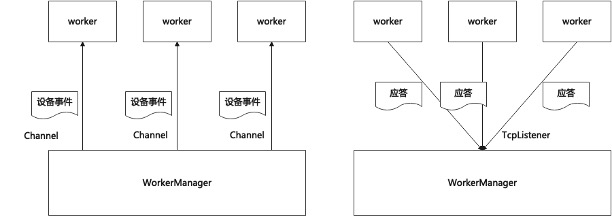
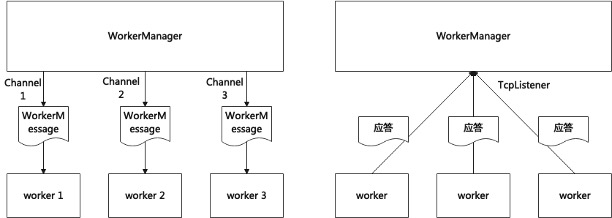
docs(devmaster): update devmaster document

diff --git a/docs/design/02-devmaster_architecture.md b/docs/design/02-devmaster_architecture.md
@@ -1,0 +1,210 @@
+目 录
+
+[TOC]
+
+**Abstract** **摘要**：*devmaster*是*sysmaster*的设备管理模块，其机制与策略分离的设计思想提供了优秀的灵活性和可扩展能力，另一方面*devmaster*采用了并发程序框架，有效地利用了多核硬件资源的并发能力。*devmaster*通过*inotify*机制监听设备写操作并同步触发*change*类型的*uevent*事件，并通过监听内核上报的*uevent*事件从而感知设备动作，使得在设备热插拔、格式化等操作后能及时更新设备信息。*devmaster*在设备处理上使用了规则解析策略，使用者可以根据业务需求编写定制化的设备处理规则，避免了策略硬编码问题，提高*devmaster*在使用上的灵活性和可扩展性。为了充分利用硬件设备的多核处理能力，*devmaster*采用了单生产者多消费者的并发框架，daemon进程集中监听*uevent*事件并通过任务队列对事件进行缓存调度，当任务队列中存在待处理事件时，worker管理器会分配一个空闲的worker进行任务派发，同一时刻运行有多个worker同时处理多个无依赖关系的设备事件。*devmaster*使用状态机模型管理worker和设备事件的执行状态，及时进行回收、释放等状态更新动作。设备管理是支持1号进程在虚拟机、物理机等场景下部署运行必不可少的能力，因此*devmaster*是*sysmaster*的核心扩展模块之一。
+
+**Keywords** **关键词**： *设备管理*
+
+
+
+# 1 概述
+
+devmaster是sysmaster的设备管理模块，是支撑1号进程在虚拟机、物理机环境中部署运行的核心能力之一。devmaster采用了机制和策略分离的架构，并设计了一套并发程序框架，在提供优秀的灵活性和可扩展性的基础上，充分发挥了多核硬件资源的并发能力。
+
+
+
+# 2 相关工作
+
+| 业界方案     | 特点                                                         |
+| ------------ | ------------------------------------------------------------ |
+| systemd-udev | 基于内核的uevent事件驱动，并使用多worker机制对设备进行并发处理。udev设计了一种机制和策略分离的设备处理流程，提供了优秀的业务定制能力 |
+| busybox-mdev | 利用sysfs机制主动创建设备节点，或使用内核hotplugin回调机制被动创建或删除设备节点。每触发一次uevent就会创建一个子进程，高并发场景下容易资源紧张 |
+| android-vold | 介于Kernel和Framework之间，监听uevent事件并做简单的设备处理，复杂业务逻辑通过Framework层的存储管理器间接派发给具体服务和APP实现 |
+| macox X      | 由设备驱动直接创建设备节点，具体设备的处理策略需要具体分析   |
+
+
+
+# 3 设计方案
+
+本节对devmaster的设计方案进行讨论。首先我们将分析devmaster的总体架构，并介绍涉及代码的目录结构，然后我们将介绍devmaster的基本运行框架，并细粒度分析各个子模块的工作原理，最后我们通过时序图介绍devmaster的核心功能场景。
+
+
+
+## 3.1 总体架构
+
+devmaster包含两个可执行文件：常驻进程devmaster和客户端工具devctl
+
+1. devmaster作为常驻进程持续监听内核上报的uevent事件，接收事件后获取空闲的worker或创建新的worker，并派发设备处理任务。同时，udevd会与客户端程序udevadm进行交互，对进行的运行状态进行控制。
+2. devctl作为客户端工具负责与devmaster进行交互，比如发送控制命令，也可以监听uevent事件、触发事件、调试规则等。
+
+如下所示为devmaster的总体架构图，各子模块的功能描述详情见附录的特性列表。
+
+![](./assets/devmaster_architecture.jpg)
+
+
+
+## 3.2 目录结构
+
+1. 源码位置: extends/devmaster
+
+2. 公共函数库: libs/libdevice
+
+3. 规则文件与配置文件：todo
+
+
+
+## 3.3 基本框架
+
+devmaster采用基于epoll的libevent异步编程框架，当内核上报uevent事件或者用户通过devctl工具发送控制命令后，将激活devmaster进入设备处理流程。基本框架分成三个层次，第一层次包含ControlManager和Monitor模块，负责接收设备事件，ControlManager负责接收devctl发送的控制指令，用户可以通过devct对devmaster的框架功能进行调试，Monitor负责监听内核上报的uevent事件，第二层次为JobQueue模块，devmaster接收到设备事件后需要插入到任务队列中进行缓存，并等待派发给空闲worker进程设备处理，队列中的各个事件具有状态，JobQueue需要维护和刷新事件状态，第三层次为WorkerManager模块，当任务队列中存在待处理事件时，由WorkerManager分配或者创建空闲的worker，并派发事件给worker进行处理，WorkerManager需要维护和刷新worker的状态，worker接收到待处理事件时，会在日志中打印接收记录，处理成功后，向外广播设备信息，并向WorkerManager通过tcp发送应答消息。各模块间的依赖关系如下图所示，ControlManager和Monitor持有JobQueue的引用，当接收到设备事件后，插入到任务队列中，JobQueue和WorkerManager相互持有引用，JobQueue中存在待处理任务时，会向WorkerManager分发，如果获取到空闲worker，则更新任务状态，WorkerManager获取到空闲的worker时，会将设备任务发送给该worker进行处理，处理完成后，WorkerManager通过JobQueue更新任务状态。
+
+<img src="./assets/devmaster_basic_framework.jpg" width="35%" height="35%">
+
+## 3.4 模块分析
+
+本节将详细介绍devmaster基本框架中的各个子模块。
+
+
+
+### 3.4.1 Monitor
+
+devmaster通过Monitor模块监听内核上报的uevent事件，根据uevent事件提取设备信息，生成Device实例并插入到JobQueue中进行缓存。Monitor模块中包含唯一的DeviceMonitor实例，DeviceMonitor在libdevice库中定义，
+
+
+
+### 3.4.2 ControlManager
+
+devmaster通过ControlManager模块接收devctl工具发送的控制命令，ControlManager监听的端口地址为（0.0.0.0:1224），当前支持的控制命令如下：
+
+1. devctl test <devname>：该命令执行后向ControlManager发送"test <devname>"消息，ControlManager接收后根据devname模拟一个Device实例，并插入到JobQueue中进行任务调度。
+2. devctl kill：该命令执行后向ControlManager发送"kill "消息，ControlManager接收后调用WorkerManager的start_kill_workers_timer方法，进行worker回收。
+
+
+
+### 3.4.3 JobQueue
+
+devmaster在短时间内监测到大量uevent事件时，可能无充足数量的worker来同时满足任务调度，因此使用JobQueue将设备事件缓存起来，等待worker进入空闲状态后再进行派发处理。
+
+1. 数据结构：JobQueue使用VecDeque作为内部容器，队列元素的类型为DeviceJob数据结构，DeviceJob对Device进行封装，附加任务状态、序列号以及worker引用。JobQueue在存储任务时，根据设备的序列号进行自小到大地排序。DeviceJob具有三种状态：Undef表示尚未初始化，目前生成DeviceJob实例时将状态默认初始化为Queued，Undef状态未被使用；Queue表示任务已入队，并等待派发处理，该状态下DeviceJob中对worker的引用为空，表示尚未得到worker处理；Running表示任务正在被某个worker处理中，每个DeviceJob同一时间仅允许被唯一的worker处理，该状态下DeviceJob中包含对该worker的引用。
+
+2. 设备事件入队：上层模块调用job_queue_insert函数向JobQueue发送Device实例后，JobQueue将Device封装为DeviceJob并插入到容器中存储。入队过程中会检查Device实例中的序列号seqnum是否大于0，内核上报的uevent中的设备属性包含大于0的序列号，JobQueue仅支持来源自内核uevent的设备事件，ControlManager接收到devctl test <devname>发送的控制命令后，会仿造一个合法的Device实例，并发送给JobQueue进行调试。新插入的DeviceJob会根据序列号seqnum大小插入到特定位置，保持JobQueue队列的有序。
+
+3. 任务派发：上层模块调用job_queue_start函数开始任务派发，JobQueue轮询队列中的设备任务，如果任务状态为Queued，则通过WorkerManager进行worker调度，如果WorkerManager成功将任务派发给空闲的worker进行处理，JobQueue中会更新该任务的状态为Running，并将该任务和分配的worker绑定。进行设备事件入队后，需要紧跟任务派发动作。
+
+4. 任务清理：worker处理完设备后，会向WorkerManager发送已完成的应答信号，此时WorkerManager中调用job_free函数，将worker绑定的设备任务从JobQueue中清除。
+
+
+
+### 3.4.4 WorkerManager
+
+WorkerManager模块负责管理调度worker，需要承担任务派发、状态更新、worker回收等工作。
+
+1. 数据结构：worker的结构体类型为Worker，每个worker持有一个线程句柄，每个线程同一时间最多能处理一个设备，Worker有5种状态：UNDEF用于标识状态机起始点，创建worker实例后的起始状态是UNDEF，之后立刻进入IDLE状态；IDLE表示Worker线程处于空闲状态，等待WorkerManager派发任务，WorkerManager只会向处于IDLE状态的worker发送任务；RUNNING表示正在处理一个任务，同一时间一个worker只能处理一个任务，WorkerManager在派发任务时会检查worker状态，如果处于RUNNING，则不会向该worker发送任务；KILLING表示已向该worker的线程发送kill控制命令，worker内部使用channel向执行中的线程发送消息，如果worker线程正在处理任务，发送的消息会保存在channel缓存中，等待下一次线程通过recv读取kill命令后，再进行线程回收的流程；KILLED为终止状态，表示这个Worker已经杀死，线程已退出运行，且WokerManager收到了线程发送的退出响应，之后WorkerManager会清理worker的残留记录。
+
+![](./assets/devmaster_worker_state_machine.jpg)
+
+2. worker回收：在一些场景下需要回收正在运行的worker，比如事件队列空闲持续xx秒、控制块退出、控制块重新加载数据、收到devctl的特定控制命令等等。worker回收通过调用manager_kill_workers函数触发，该函数中会向所有worker发送kill控制命令，此时处于IDLE状态的worker进入KILLING状态并直接结束运行，处于RUNNING状态的worker会进入KILLING状态，然后等待当前任务完成再结束运行。当前仅支持使用devctl命令手动触发worker回收，自动回收功能需要等libevent支持on_post特性后再进行开发。
+
+3. WorkerManager结构体对所有worker集中管理：为每个worker分配一个channel，worker持有发送端，worker内部执行的线程中持有接收端，worker处于空闲状态时，允许向其派发WorkerMessage，WorkerMessage可以是设备任务DeviceJob，也可以是控制命令Cmd；WorkerManager通过唯一的Tcp端口（"0.0.0.0:1223"）集中监听所有worker的响应消息，消息溯源通过消息内容进行区分，如果worker完成了设备任务，会返回finished id，当WorkerManager收到应答后，根据id找到worker并重置状态为IDLE，刷新与该worker绑定的DeviceJob事件状态，并从JobQueue中把对应的DeviceJob清除，如果worker线程退出了运行，会返回killed id，WorkerManager将该worker记录从控制块中清除。另外，worker在处理完设备后，会通过netlink向用户态进程广播设备信息，使用devctl monitor可以监听到该信息。
+
+![](./assets/devmaster_worker_communicate.jpg)
+
+
+
+## 3.5 核心功能
+
+本节将以时序图的形式介绍devmaster的几个核心功能场景。
+
+
+
+### 3.5.1 事件驱动的设备处理流程
+
+1. Monitor监听到uevent事件后，解析uevent报文并提取Device数据。
+
+   【观测点：devmaster debug日志`Monitor: received device <devpath>`】
+
+2. 将Device数据插入JobQueue中。
+
+   【观测点：devmaster debug日志 `Job Queue: insert job <seqnum>`】
+
+3. JobQueue将队列中的事件派发给WorkerManager。
+
+   【观测点：devmaster debug日志`Worker Manager: start dispatch job <seqnum>`】
+
+4. WorkerManager获取空闲worker，将设备任务发送给worker，并设置该worker的状态为RUNNING。
+
+   【观测点1：devmaster debug日志`Worker Manager: set worker <worker number> to state Running`】
+
+   【观测点2：devmaster debug日志`Job Queue: dispatch job <seqnum> to worker <worker number>`】
+
+5. worker接收到设备任务后，进行设备处理。
+
+   **【观测点1：devmaster info日志`Worker <worker number>: received device <devpath>`】**
+
+   **【观测点2：devmaster info日志`Worker <worker number>: processing <devpath>`】**
+
+6. 设备处理完成后，向外广播设备信息，并向WorkerManager发送应答消息
+
+   **【观测点1：devmaster info日志`Worker <worker number>: finished job`】**
+
+7. devctl monitor命令可以监听到worker广播的信息，并实时打印。【观测点：devctl monitor打印】
+
+   **【观测点：devctl monitor命令捕捉设备信息广播`USERSPACE [] >> <action> <devpath> (<subsystem>)`】**
+
+8. WorkerManager收到应答消息后，设置worker状态为IDLE，并在JobQueue中清理与该worker绑定的设备任务
+
+   【观测点1：devmaster debug日志`Worker Manager: received message "finished <worker number>"`】
+
+   【观测点2：devmaster debug日志`Job Queue: succeeded to free job <seqnum>`】
+
+   【观测点3：devmaster debug日志`Worker Manager: set worker <worker number> to state IDLE`】
+
+<img src="./assets/devmaster_device_process.jpg" width="60%" height="60%">
+
+# 4 实验对比
+
+
+
+# 5 附录
+
+
+
+## 5.1 特性列表
+
+| 需求编号 | 需求名称                       | 特性描述                                                                                                                                                                                                                                              | 优先级 |
+| -------- | ------------------------------ | ----------------------------------------------------------------------------------------------------------------------------------------------------------------------------------------------------------------------------------------------------- | ------ |
+| 1        | Monitor                        | 使用netlink机制注册socket，监听并接受内核上报的uevent事件，将事件输送到事件队列进行管理，同时承担libdevmaster对外广播的功能，每当某个事件处理结束后，向外广播处理结束的消息                                                                           | 高     |
+| 2        | JobQueue                   | 使用队列数据结构管理monitor接受的uevent事件，将队列中的事件派发给worker进行并发处理，并及时更新队列与事件状态                                                                                                                                         | 高     |
+| 3        | WorkerManager                     | 采用线程池模型创建并管理worker，当接收事件队列派发的任务时，从线程池中获取一个空闲的worker进行处理，如果不存在空闲worker，则创建一个新的worker线程进行处理,worker中进行规则处理，需要设计看门狗机制防止处理超时，当worker空闲过久时，需要进行线程回收 | 高     |
+| 4        | 规则处理                       | 负责导入和管理规则文件，处理设备任务时需要执行规则解析动作，规则解析过程需要一些特殊设备组件与builtin工具的支持，并且需要实现hwdb对设备信息进行持久化存储                                                                                             | 中     |
+| 5        | 信号处理                       | 接收SIGINT和SIGTERM信号时，进入进程退出流程，接收SIGHUP信号时，重新加载进程                                                                                                                                                                           | 中     |
+| 6        | libdevice                   | 提供设备相关的公共函数、数据结构等支持                                                                                                                                                                                                                      | 中     |
+| 7        | Watch                          | 使用inotify机制监控设备节点的IN_CLOSE_WRITE操作，并通过sysfs机制模拟设备的change事件                                                                                                                                                            | 低    |
+| 8        | ControlManager                        | 使用UnixSocket机制，监听客户端程序devctl发起的连接请求，建立连接后进行报文交互，并根据控制请求进行控制响应                                                                                                                                     | 低     |
+| 9        | 控制响应                       | 根据客户端程序的控制请求，进行配置设置、行为控制、延时控制等动作                                                                                                                                                                                      | 低     |
+| 10       | 配置管理                       | 支持配置文件导入、解析命令行参数、解析环境变量等功能，对devmaster的运行参数进行控制                                                                                                                                                                   | 低     |
+| 11       | devctl monitor      | devctl监听内核上报的uevent事件，并根据事件报文头区分报文来源自内核还是用户态，实时打印                                                                                                                                                   | 高     |
+| 12       | devctl trigger      | devctl通过sysfs机制触发指定动作的设备事件，再通过内核上报用户态程序                                                                                                                                                                            | 高     |
+| 13       | devctl info         | devctl通过sysfs机制和读取数据库获取设备信息并打印                                                                                                                                                                                              | 中     |
+| 14       | devctl test-builtin | devctl用于调试builtin内置命令                                                                                                                                                                                                                  | 中     |
+| 15       | devctl test         | devctl模拟设备事件，查看匹配的规则，用于调试规则解析                                                                                                                                                                                           | 中     |
+| 16       | devctl control      | devctl与devmaster交互，向devmaster发送控制信息                                                                                                                                                                                                 | 低     |
+| 17       | devctl settle       | devctl与devmaster交互，等待devmaster的事件队列清空                                                                                                                                                                                             | 低     |
+
+
+
+## 5.2 接口定义
+
+
+
+### 1. devctl monitor
+
+|||
+|---|:--|
+|接口名称|devctl monitor|
+|接口描述|监听内核上报的uevent和devmaster的设备广播|
+|接口类型|命令行|
+|接口定义|devctl monitor|
+|Input参数|无|
+|Output参数|无|
+|约束和注意事项|devmaster未处于运行状态时，仅能监听到来自内核的设备消息，并打印 KERNEL 记录。如果devmaster正在运行，且接收到uevent并成功处理完设备，会广播设备信息，此时devctl monitor命令将打印 USERSPACE 记录。|
